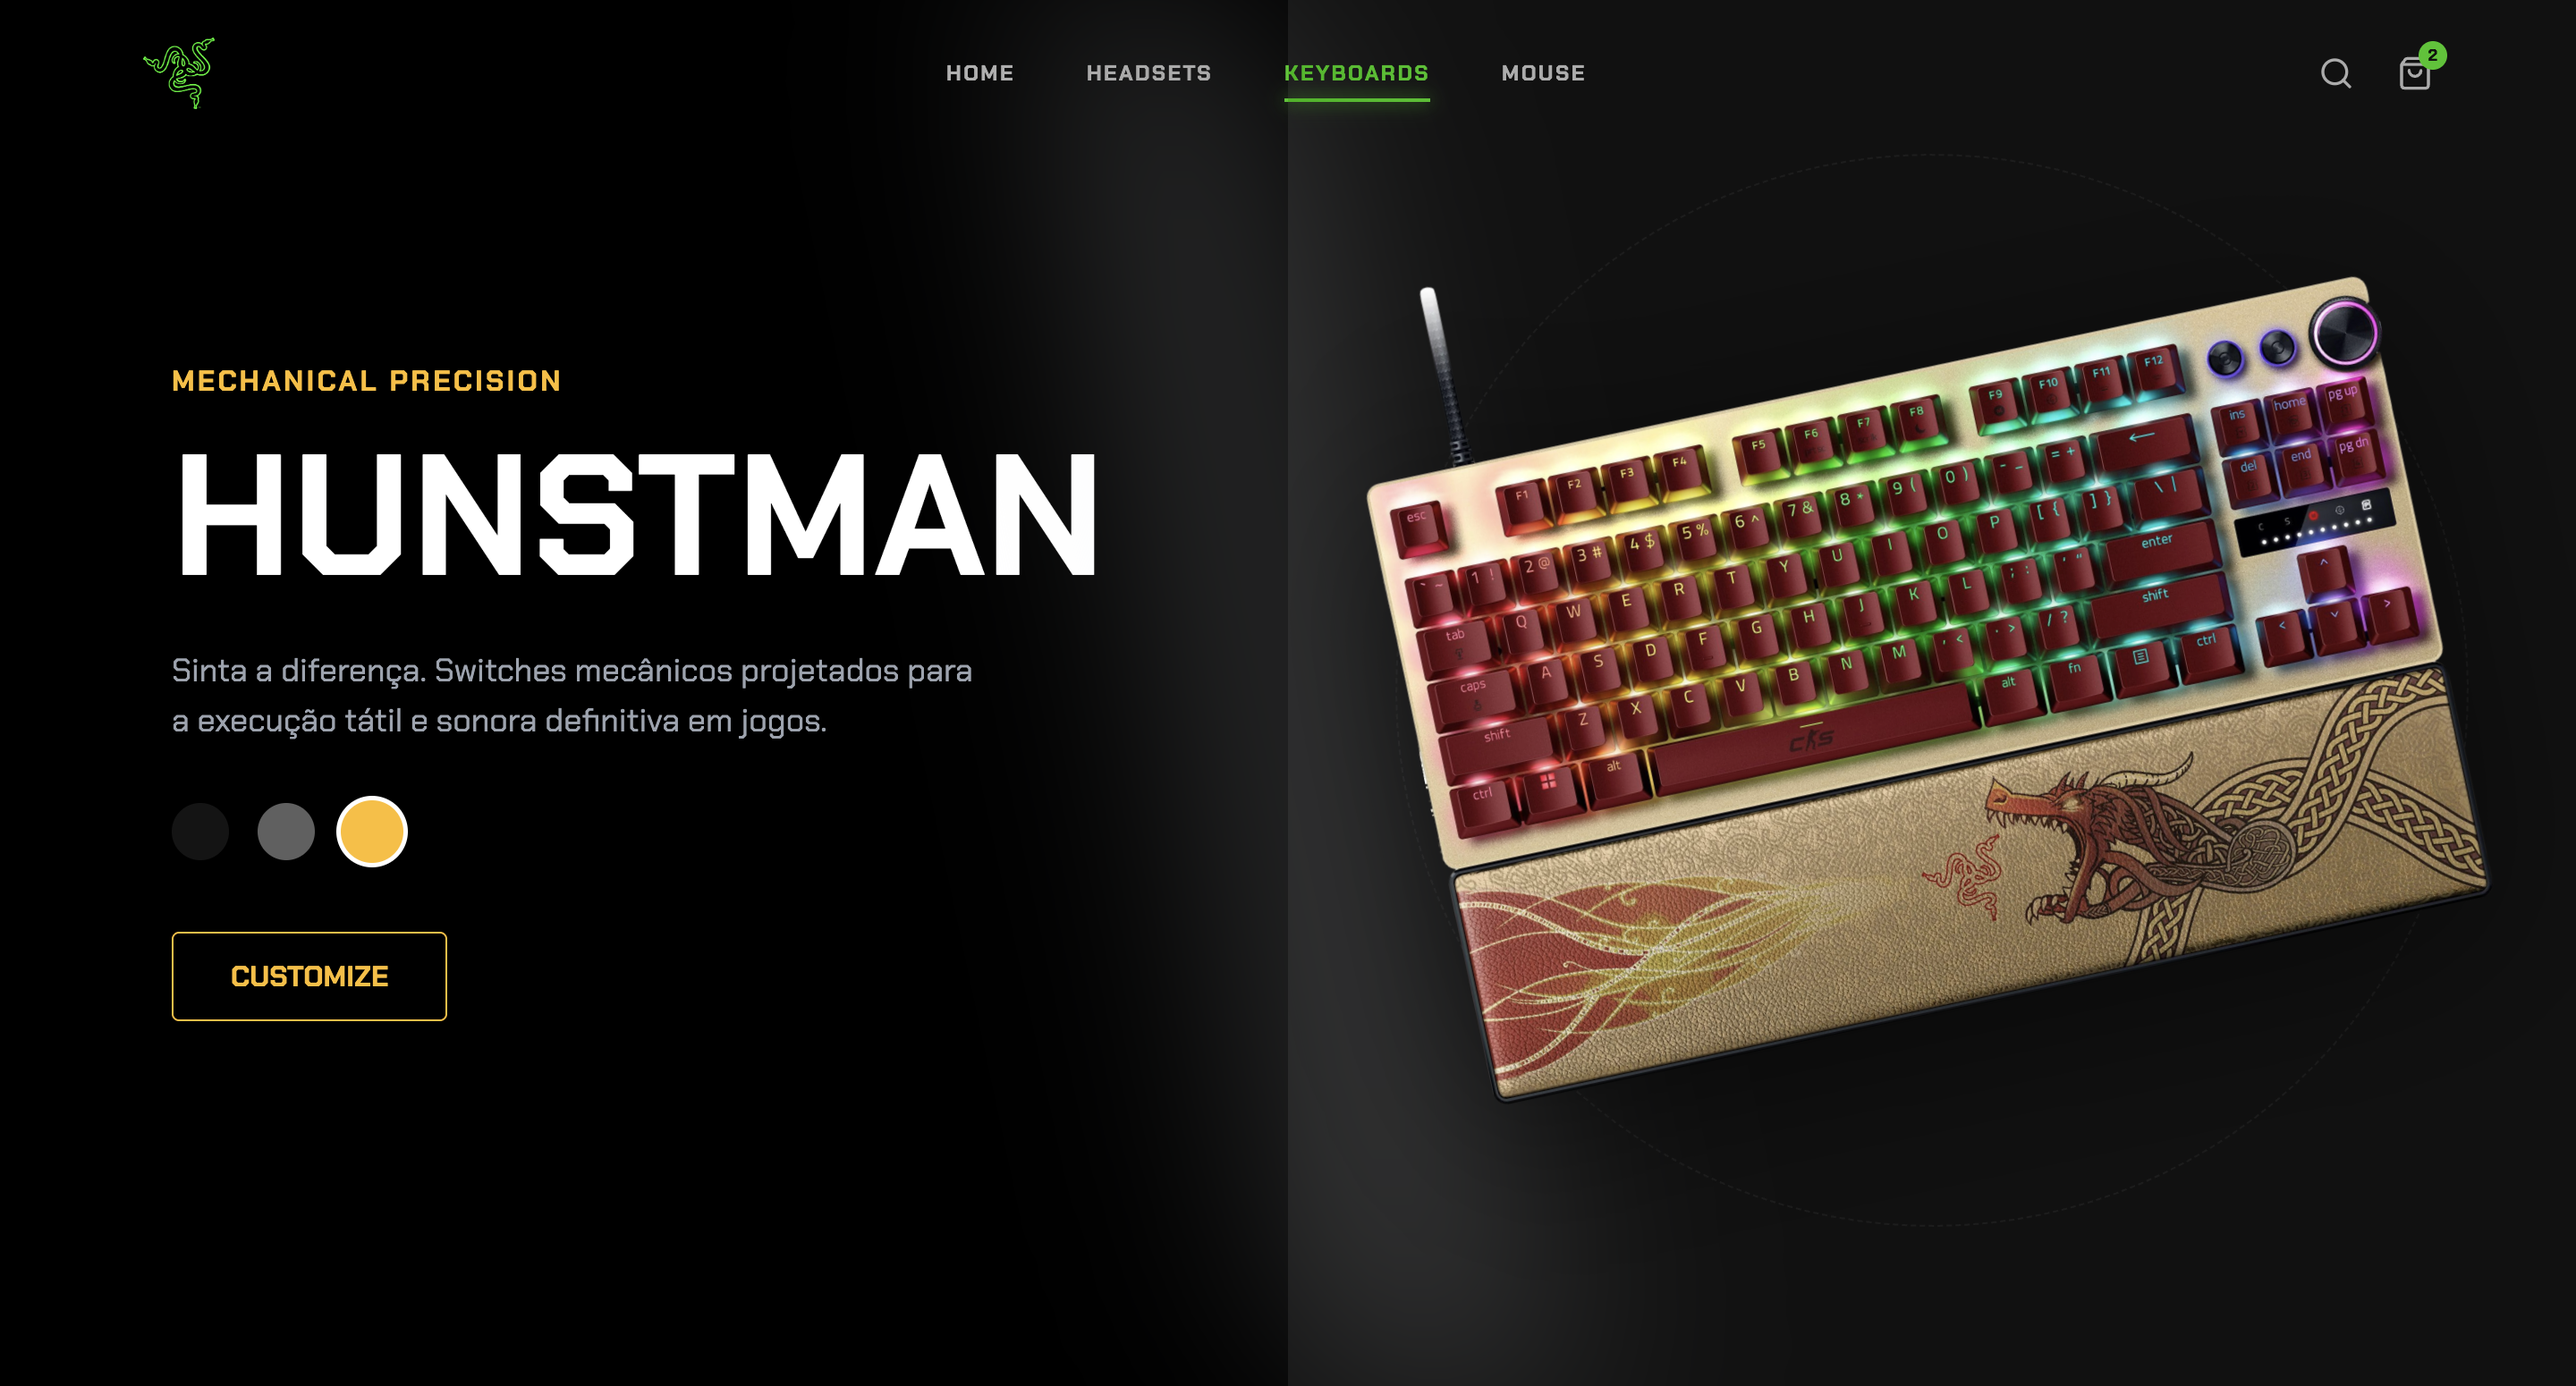
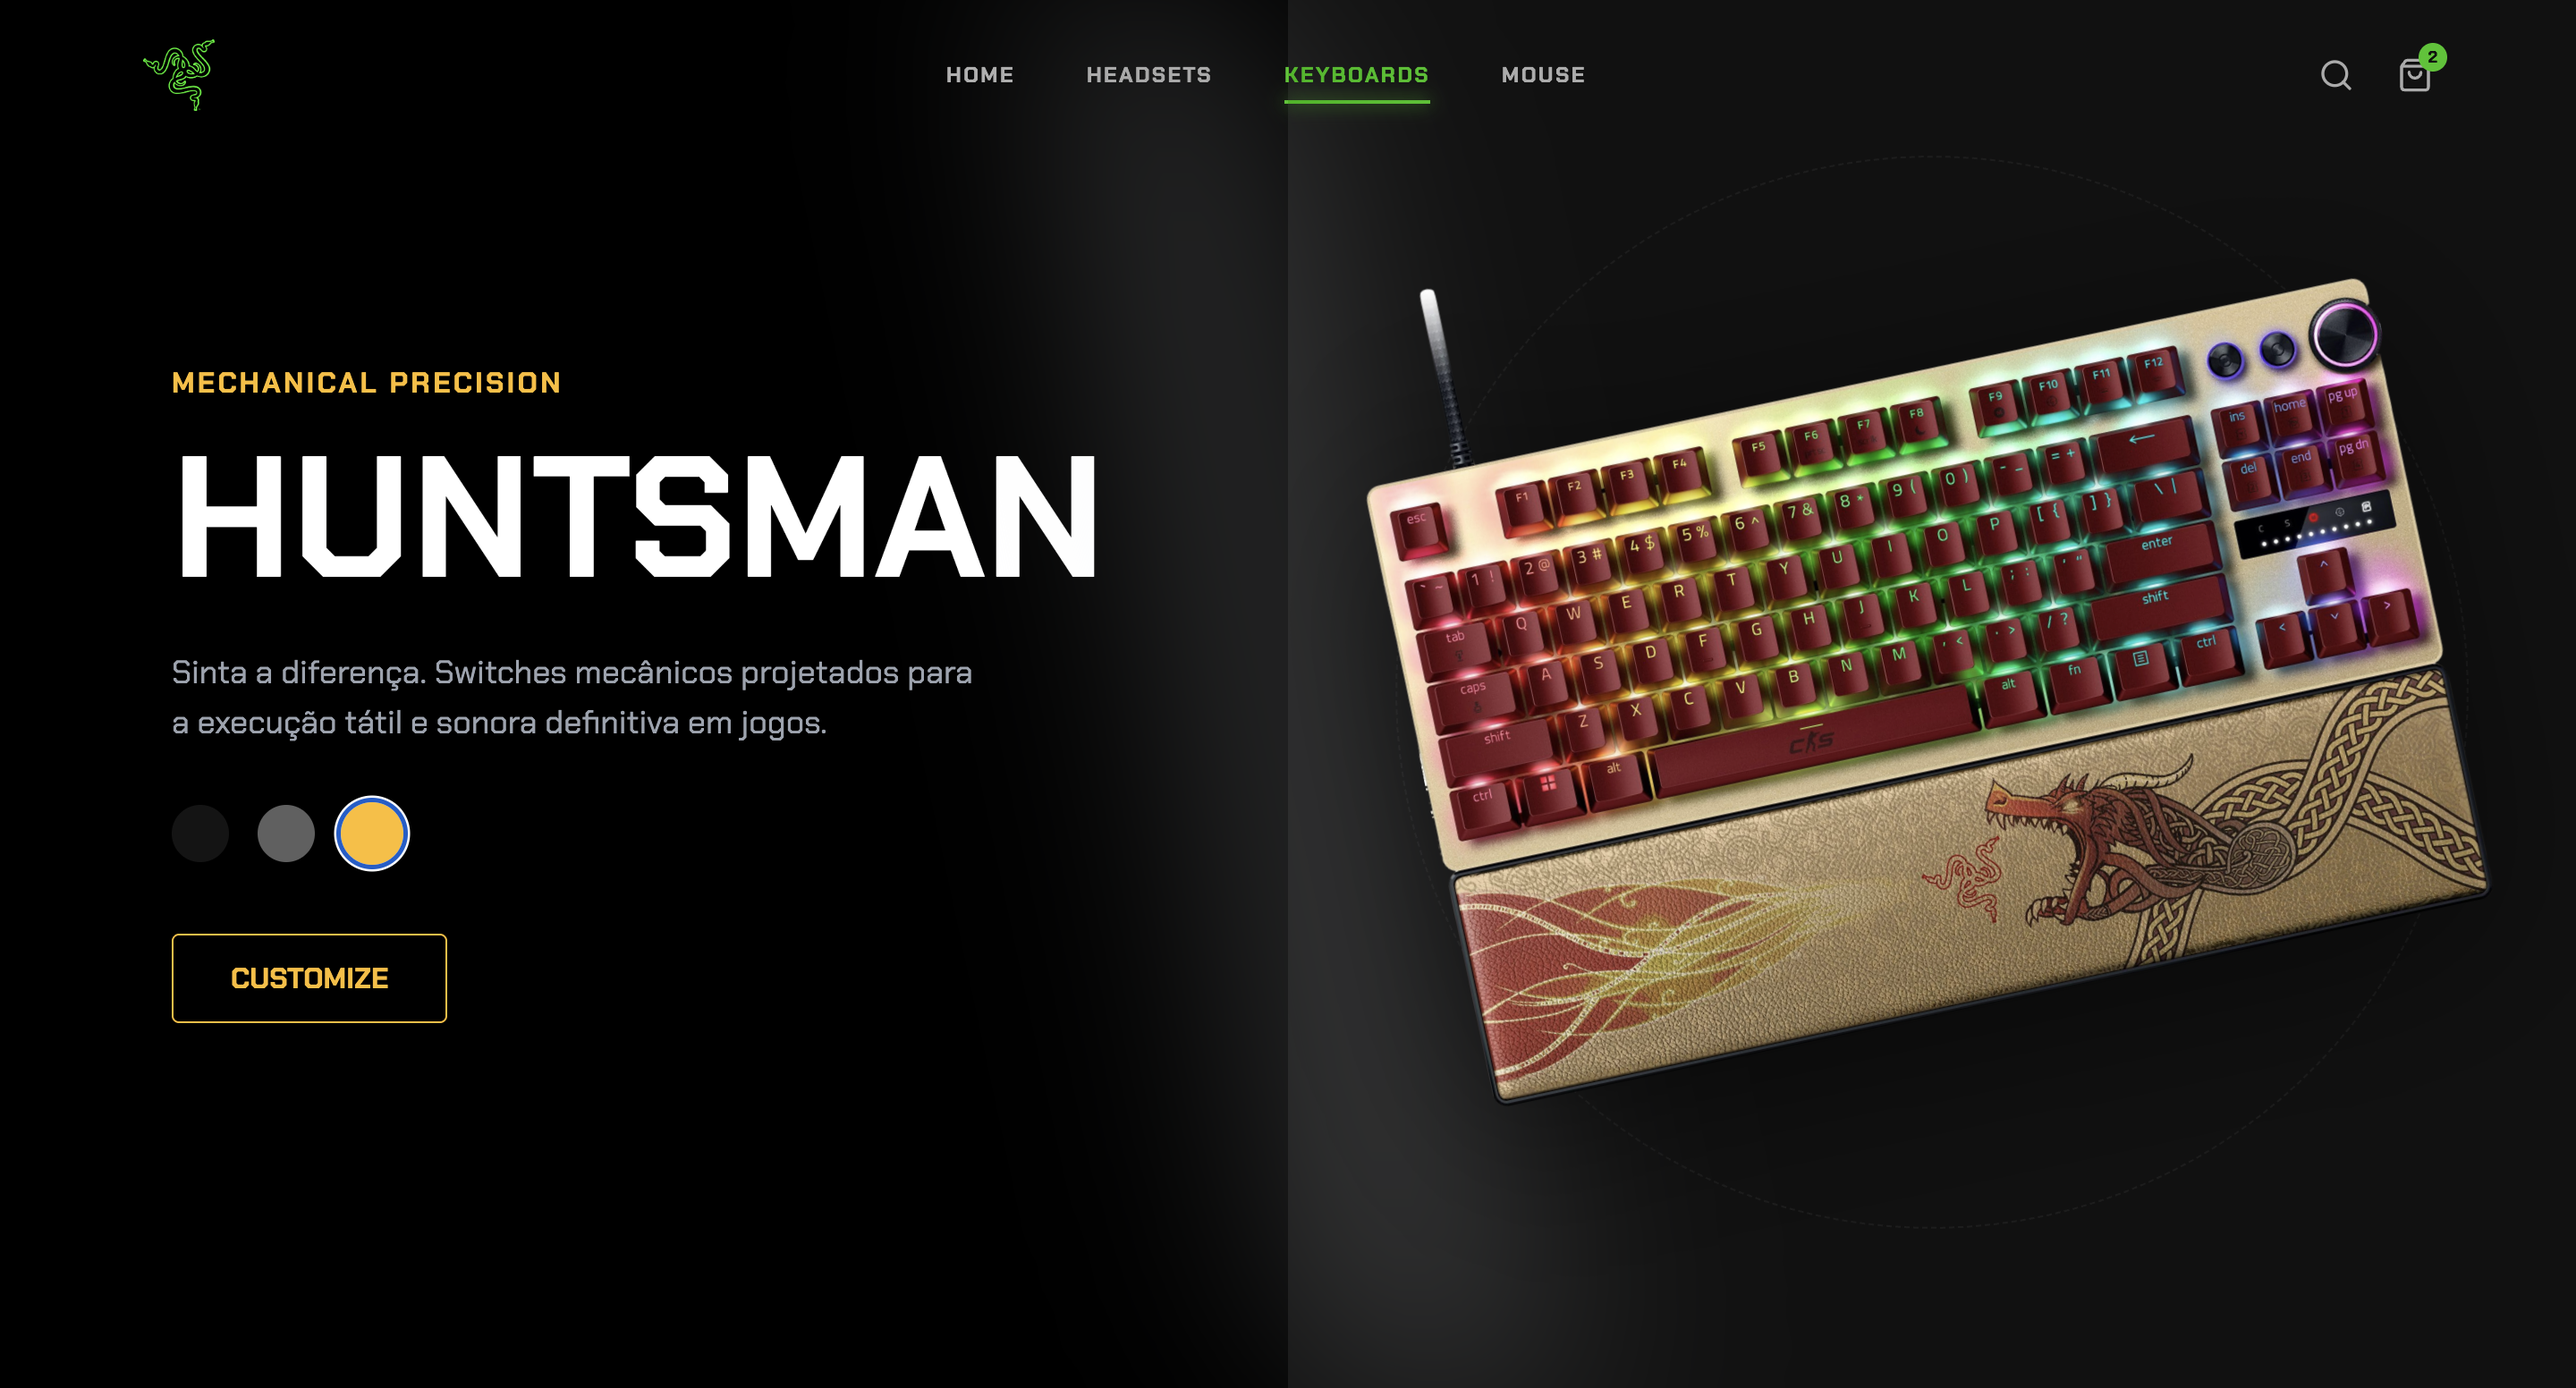
fix: name keyboard

diff --git a/website/src/components/Keyboards.jsx b/website/src/components/Keyboards.jsx
@@ -54,7 +54,7 @@ const Keyboards = () => {
               MECHANICAL PRECISION
             </motion.h4>
             <h1 className="text-6xl md:text-8xl font-black text-white mb-6 uppercase leading-none">
-              Hunstman<br/>
+              Huntsman<br/>
             </h1>
             <p className="text-gray-400 max-w-md mb-8 text-lg">
               Sinta a diferença. Switches mecânicos projetados para a execução tátil e sonora definitiva em jogos.
